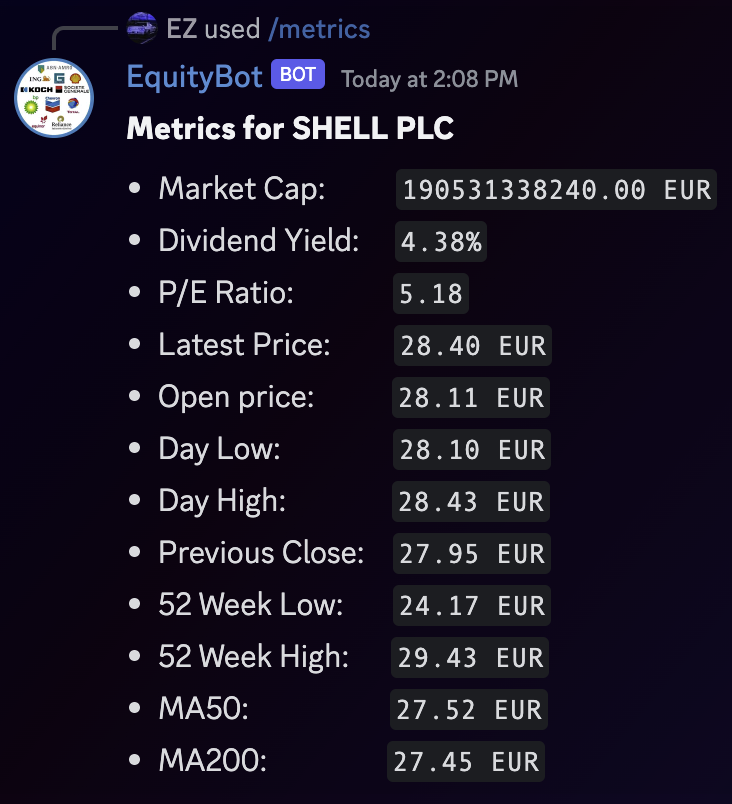
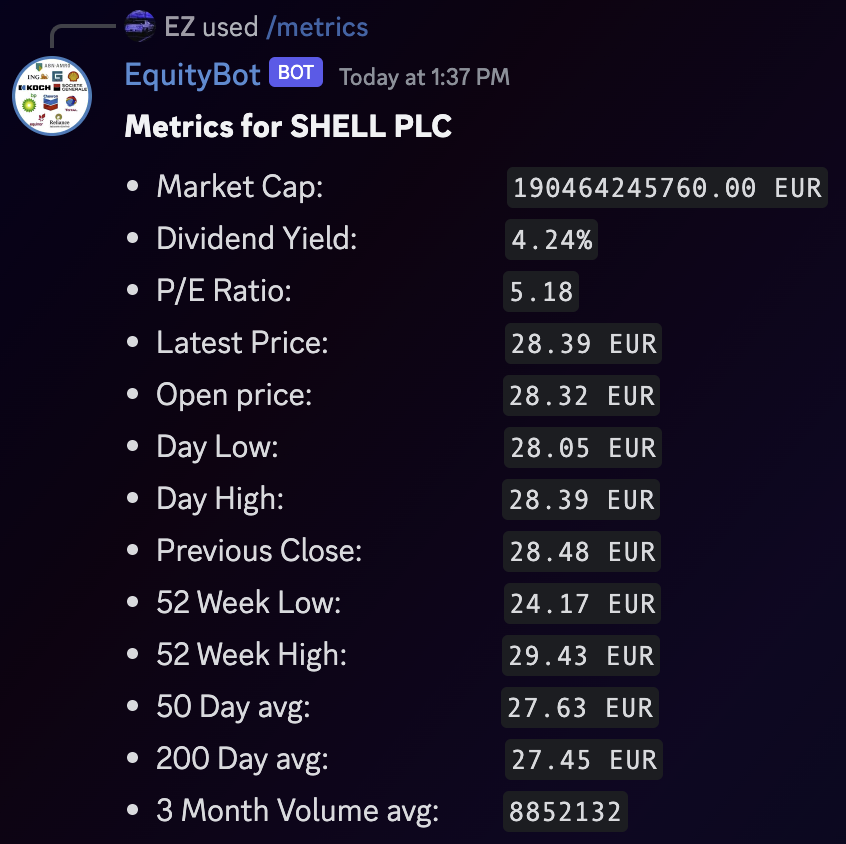
added new metric: avg volume over 3 months

Changed region(s): [[0.0, 0.0, 0.9918, 0.995]]

diff --git a/src/data.cpp b/src/data.cpp
@@ -348,13 +348,17 @@ StockMetrics fetchStockMetrics(const std::string &symbol)
         {
             stockMetrics.fiftyTwoWeekHigh = quote["fiftyTwoWeekHigh"].GetDouble();
         }
-        if (quote.HasMember("fiftyDayAverage") && quote["fiftyDayAverage"].IsNumber()) // MA_50
+        if (quote.HasMember("fiftyDayAverage") && quote["fiftyDayAverage"].IsNumber()) // avg_50
         {
-            stockMetrics.MA_50 = quote["fiftyDayAverage"].GetDouble();
+            stockMetrics.avg_50 = quote["fiftyDayAverage"].GetDouble();
         }
-        if (quote.HasMember("twoHundredDayAverage") && quote["twoHundredDayAverage"].IsNumber()) // MA_200
+        if (quote.HasMember("twoHundredDayAverage") && quote["twoHundredDayAverage"].IsNumber()) // avg_200
         {
-            stockMetrics.MA_200 = quote["twoHundredDayAverage"].GetDouble();
+            stockMetrics.avg_200 = quote["twoHundredDayAverage"].GetDouble();
+        }
+        if (quote.HasMember("averageDailyVolume3Month") && quote["averageDailyVolume3Month"].IsNumber()) // avgVol_3mo
+        {
+            stockMetrics.avgVol_3mo = quote["averageDailyVolume3Month"].GetDouble();
         }
     }
     else
@@ -385,8 +389,7 @@ std::string getFormattedStockMetrics(const std::string &symbol, bool markdown)
         formattedMetrics << "Metrics for " << metrics.name << ":\n";
         formattedMetrics << std::fixed << std::setprecision(2);
         formattedMetrics << "- Market Cap:         " << metrics.marketCap << " " << metrics.currency << "\n";
-        formattedMetrics << "- Dividend Yield:     " << metrics.dividendYield << "%"
-                         << "\n";
+        formattedMetrics << "- Dividend Yield:     " << metrics.dividendYield << "%\n";
         formattedMetrics << "- P/E Ratio:          " << metrics.peRatio << "\n";
         formattedMetrics << "- Latest Price:       " << metrics.latestPrice << " " << metrics.currency << "\n";
         formattedMetrics << "- Open price:         " << metrics.openPrice << " " << metrics.currency << "\n";
@@ -395,25 +398,29 @@ std::string getFormattedStockMetrics(const std::string &symbol, bool markdown)
         formattedMetrics << "- Previous Close:     " << metrics.prevClose << " " << metrics.currency << "\n";
         formattedMetrics << "- 52 Week Low:        " << metrics.fiftyTwoWeekLow << " " << metrics.currency << "\n";
         formattedMetrics << "- 52 Week High:       " << metrics.fiftyTwoWeekHigh << " " << metrics.currency << "\n";
-        formattedMetrics << "- MA50:               " << metrics.MA_50 << " " << metrics.currency << "\n";
-        formattedMetrics << "- MA200:              " << metrics.MA_200 << " " << metrics.currency << "\n";
+        formattedMetrics << "- 50 Day avg:         " << metrics.avg_50 << " " << metrics.currency << "\n";
+        formattedMetrics << "- 200 Day avg:        " << metrics.avg_200 << " " << metrics.currency << "\n";
+        formattedMetrics << std::fixed << std::setprecision(0); // For average volume no need for decimal places
+        formattedMetrics << "- 3 Month Volume avg: " << metrics.avgVol_3mo << "\n";
     }
     else // It looks weird but this way in Discord the spaces between the names and values are even
     {
         formattedMetrics << "### Metrics for " << metrics.name << "\n";
         formattedMetrics << std::fixed << std::setprecision(2);
-        formattedMetrics << "- Market Cap:          `" << metrics.marketCap << " " << metrics.currency << "`\n";
-        formattedMetrics << "- Dividend Yield:     `" << metrics.dividendYield << "%`\n";
-        formattedMetrics << "- P/E Ratio:              `" << metrics.peRatio << "`\n";
-        formattedMetrics << "- Latest Price:         `" << metrics.latestPrice << " " << metrics.currency << "`\n";
-        formattedMetrics << "- Open price:           `" << metrics.openPrice << " " << metrics.currency << "`\n";
-        formattedMetrics << "- Day Low:                `" << metrics.dayLow << " " << metrics.currency << "`\n";
-        formattedMetrics << "- Day High:               `" << metrics.dayHigh << " " << metrics.currency << "`\n";
-        formattedMetrics << "- Previous Close:    `" << metrics.prevClose << " " << metrics.currency << "`\n";
-        formattedMetrics << "- 52 Week Low:       `" << metrics.fiftyTwoWeekLow << " " << metrics.currency << "`\n";
-        formattedMetrics << "- 52 Week High:      `" << metrics.fiftyTwoWeekHigh << " " << metrics.currency << "`\n";
-        formattedMetrics << "- MA50:                    `" << metrics.MA_50 << " " << metrics.currency << "`\n";
-        formattedMetrics << "- MA200:                 `" << metrics.MA_200 << " " << metrics.currency << "`\n";
+        formattedMetrics << "- Market Cap:                          `" << metrics.marketCap << " " << metrics.currency << "`\n";
+        formattedMetrics << "- Dividend Yield:                     `" << metrics.dividendYield << "%`\n";
+        formattedMetrics << "- P/E Ratio:                              `" << metrics.peRatio << "`\n";
+        formattedMetrics << "- Latest Price:                         `" << metrics.latestPrice << " " << metrics.currency << "`\n";
+        formattedMetrics << "- Open price:                           `" << metrics.openPrice << " " << metrics.currency << "`\n";
+        formattedMetrics << "- Day Low:                                `" << metrics.dayLow << " " << metrics.currency << "`\n";
+        formattedMetrics << "- Day High:                               `" << metrics.dayHigh << " " << metrics.currency << "`\n";
+        formattedMetrics << "- Previous Close:                    `" << metrics.prevClose << " " << metrics.currency << "`\n";
+        formattedMetrics << "- 52 Week Low:                       `" << metrics.fiftyTwoWeekLow << " " << metrics.currency << "`\n";
+        formattedMetrics << "- 52 Week High:                      `" << metrics.fiftyTwoWeekHigh << " " << metrics.currency << "`\n";
+        formattedMetrics << "- 50 Day avg:                           `" << metrics.avg_50 << " " << metrics.currency << "`\n";
+        formattedMetrics << "- 200 Day avg:                         `" << metrics.avg_200 << " " << metrics.currency << "`\n";
+        formattedMetrics << std::fixed << std::setprecision(0); // For average volume no need for decimal places
+        formattedMetrics << "- 3 Month Volume avg:         `" << metrics.avgVol_3mo << "`\n";
     }
 
     // Return the formatted metrics as a string

diff --git a/src/include/data.h b/src/include/data.h
@@ -39,8 +39,9 @@ struct StockMetrics
     double prevClose = 0;        // Previous closing price
     double fiftyTwoWeekLow = 0;  // 52 week low (lowest price in last 52 weeks)
     double fiftyTwoWeekHigh = 0; // 52 week high (highest price in last 52 weeks)
-    double MA_50 = 0;            // Moving Average 50 Days
-    double MA_200 = 0;           // moving Average 200 Days
+    double avg_50 = 0;           // Average price over 50 Days
+    double avg_200 = 0;          // Average price over 200 Days
+    double avgVol_3mo = 0;       // Average daily trading volumes over a 3-month period
 };
 
 /// Callback function to write received data to a string.
@@ -90,7 +91,7 @@ void fetchAndWriteStockData(const std::string &symbol, const std::string &durati
 
 /// Function to fetch stock/future/index metrics from Yahoo Finance API for a single symbol.
 /// @param symbol The symbol of the stock/future/index.
-/// @return StockMetrics struct containing latest price info, dividend yield, moving averages and more.
+/// @return StockMetrics struct containing price info, dividend yield, market capitalization and more.
 StockMetrics fetchStockMetrics(const std::string &symbol);
 
 /// Function to get stock/future/index metrics in a readable way.
